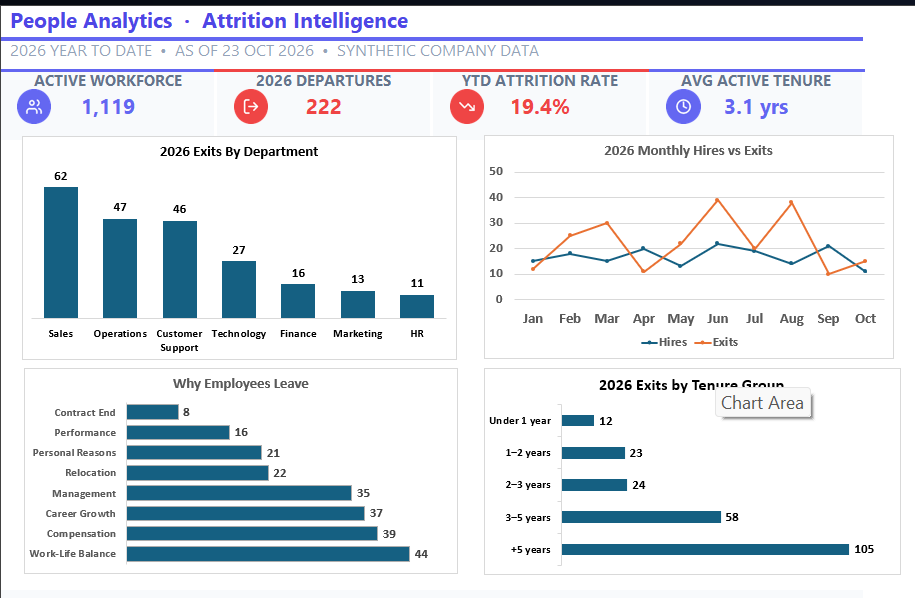
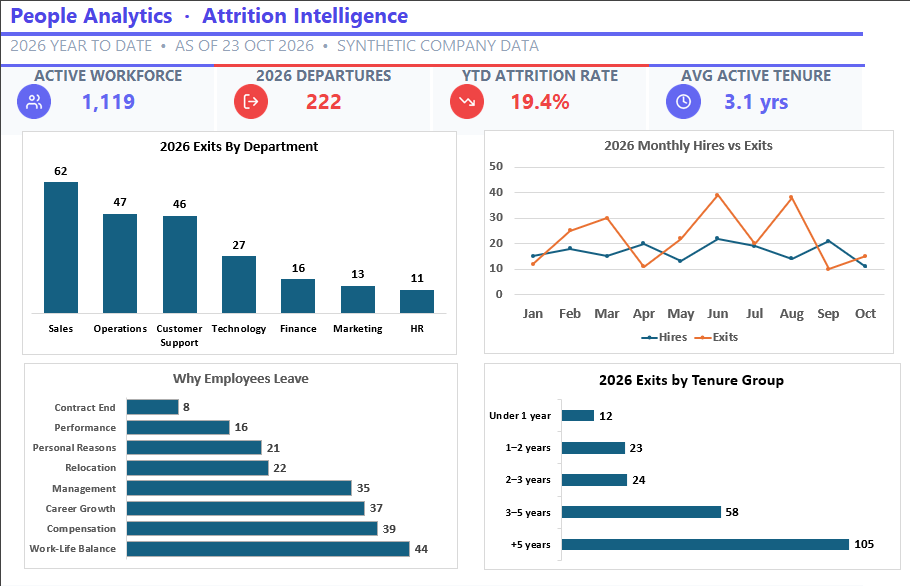
feat: add case study tab navigation components
Implement CSS styles for interactive tab components to enhance project case study organization, including responsive grid layouts for mobile viewports.

diff --git a/index.html b/index.html
@@ -276,10 +276,136 @@
 
                 <div class="case-studies-list">
 
-                    <!-- CASE STUDY 01: RFM CUSTOMER SEGMENTATION -->
-                    <article class="case-study">
+                    <!-- CASE STUDY 01: OMNI-CHANNEL MARKETING ANALYTICS & CUSTOMER JOURNEY FUNNEL -->
+                    <article id="marketing-project" class="case-study">
                         <div class="case-study-head">
                             <p class="case-study-index">Case Study 01</p>
+                            <h3>Omni-Channel Marketing Analytics &amp; Customer Journey Funnel</h3>
+                            <p class="case-study-objective">
+                                Connects marketing campaign engagement, on-site customer journey activity, and post-purchase reviews in one reporting model to evaluate marketing efficiency, checkout drop-offs, and customer satisfaction.
+                            </p>
+                        </div>
+
+                        <div class="case-study-media-wrap">
+                            <div class="case-study-tabs" role="tablist" aria-label="Dashboard report views" data-preview-tabs="marketing-preview">
+                                <button
+                                    type="button"
+                                    role="tab"
+                                    aria-selected="true"
+                                    class="case-study-tab is-active"
+                                    data-src="assets/images/project-marketing-campaign.png"
+                                    data-alt="Marketing Campaign and Media Performance Dashboard"
+                                    data-title="Omni-Channel Marketing Analytics — Campaign &amp; Media Performance"
+                                    data-width="1182"
+                                    data-height="661"
+                                >
+                                    Campaign &amp; Media
+                                </button>
+                                <button
+                                    type="button"
+                                    role="tab"
+                                    aria-selected="false"
+                                    class="case-study-tab"
+                                    data-src="assets/images/project-marketing-funnel.png"
+                                    data-alt="Customer Journey and Conversion Funnel Dashboard"
+                                    data-title="Omni-Channel Marketing Analytics — Customer Journey &amp; Conversion Funnel"
+                                    data-width="1178"
+                                    data-height="660"
+                                >
+                                    Conversion Funnel
+                                </button>
+                                <button
+                                    type="button"
+                                    role="tab"
+                                    aria-selected="false"
+                                    class="case-study-tab"
+                                    data-src="assets/images/project-marketing-sentiment.png"
+                                    data-alt="Customer Feedback and Product Sentiment Dashboard"
+                                    data-title="Omni-Channel Marketing Analytics — Customer Feedback &amp; Product Sentiment"
+                                    data-width="1193"
+                                    data-height="667"
+                                >
+                                    Customer Sentiment
+                                </button>
+                                <button
+                                    type="button"
+                                    role="tab"
+                                    aria-selected="false"
+                                    class="case-study-tab"
+                                    data-src="assets/images/project-marketing-model.png"
+                                    data-alt="Omni-Channel Marketing Star Schema Data Model"
+                                    data-title="Omni-Channel Marketing Analytics — Star Schema Data Model"
+                                    data-width="1211"
+                                    data-height="645"
+                                >
+                                    Star Schema Model
+                                </button>
+                            </div>
+
+                            <button
+                                id="marketing-preview"
+                                type="button"
+                                class="case-study-media-btn"
+                                data-lightbox-src="assets/images/project-marketing-campaign.png"
+                                data-lightbox-title="Omni-Channel Marketing Analytics — Campaign &amp; Media Performance"
+                                aria-label="Enlarge Marketing Campaign and Media Performance Dashboard"
+                            >
+                                <img
+                                    src="assets/images/project-marketing-campaign.png"
+                                    alt="Marketing Campaign and Media Performance Dashboard"
+                                    width="1182"
+                                    height="661"
+                                    loading="lazy"
+                                    decoding="async"
+                                    referrerPolicy="no-referrer"
+                                >
+                                <span class="case-study-zoom-hint">
+                                    <i class="fas fa-expand" aria-hidden="true"></i>
+                                    Click to Enlarge
+                                </span>
+                            </button>
+                        </div>
+
+                        <div class="case-study-foot">
+                            <div class="case-study-value">
+                                <p class="case-study-label">Business Value</p>
+                                <p>
+                                    Helps marketing and commercial teams see which content channels drive qualified engagement, pinpoint where shoppers drop off during checkout, and connect lower customer ratings to specific product categories and regions. Supports smarter ad budget allocation, smoother checkout flows, and targeted fulfillment improvements.
+                                </p>
+                            </div>
+
+                            <div class="case-study-meta-col">
+                                <div>
+                                    <p class="case-study-label">Tools</p>
+                                    <div class="case-study-tools">
+                                        <span>SQL Server</span>
+                                        <span class="tool-sep" aria-hidden="true">·</span>
+                                        <span>Power BI</span>
+                                        <span class="tool-sep" aria-hidden="true">·</span>
+                                        <span>DAX</span>
+                                        <span class="tool-sep" aria-hidden="true">·</span>
+                                        <span>Star Schema</span>
+                                    </div>
+                                </div>
+
+                                <div class="case-study-actions">
+                                    <a href="https://app.powerbi.com/view?r=eyJrIjoiMDc2NDQ3M2YtOGI3NC00YTE3LTkzZDYtYjdmYjAxYzljMmFmIiwidCI6ImVhZjYyNGM4LWEwYzQtNDE5NS04N2QyLTQ0M2U1ZDc1MTZjZCIsImMiOjh9" target="_blank" rel="noopener noreferrer" class="btn btn-primary">
+                                        <i class="fas fa-arrow-up-right-from-square" aria-hidden="true"></i>
+                                        Live Power BI
+                                    </a>
+                                    <a href="https://github.com/ahmedrasmyabdelrheem/Omni-Channel-Marketing-Analytics-Customer-Journey-Funnel-" target="_blank" rel="noopener noreferrer" class="btn btn-outline">
+                                        <i class="fab fa-github" aria-hidden="true"></i>
+                                        GitHub
+                                    </a>
+                                </div>
+                            </div>
+                        </div>
+                    </article>
+
+                    <!-- CASE STUDY 02: RFM CUSTOMER SEGMENTATION -->
+                    <article class="case-study">
+                        <div class="case-study-head">
+                            <p class="case-study-index">Case Study 02</p>
                             <h3>Customer Behavioral Segmentation &amp; RFM Analysis</h3>
                             <p class="case-study-objective">
                                 Classifies customers by recency, purchase frequency, and spending behavior to show how different customer groups engage with the business.
@@ -287,18 +413,48 @@
                         </div>
 
                         <div class="case-study-media-wrap">
+                            <div class="case-study-tabs" role="tablist" aria-label="RFM dashboard views" data-preview-tabs="rfm-preview">
+                                <button
+                                    type="button"
+                                    role="tab"
+                                    aria-selected="true"
+                                    class="case-study-tab is-active"
+                                    data-src="assets/images/project-rfm-overview.png"
+                                    data-alt="RFM Analysis Overview Dashboard — All Segments"
+                                    data-title="Customer Behavioral Segmentation &amp; RFM Analysis — Overview (All Segments)"
+                                    data-width="1209"
+                                    data-height="656"
+                                >
+                                    RFM Overview
+                                </button>
+                                <button
+                                    type="button"
+                                    role="tab"
+                                    aria-selected="false"
+                                    class="case-study-tab"
+                                    data-src="assets/images/project-rfm.png"
+                                    data-alt="RFM Customer Segmentation Dashboard — At Risk Segment View"
+                                    data-title="Customer Behavioral Segmentation &amp; RFM Analysis — At Risk Segment View"
+                                    data-width="1328"
+                                    data-height="710"
+                                >
+                                    Segment View (At Risk)
+                                </button>
+                            </div>
+
                             <button
+                                id="rfm-preview"
                                 type="button"
                                 class="case-study-media-btn"
-                                data-lightbox-src="assets/images/project-rfm.png"
-                                data-lightbox-title="Customer Behavioral Segmentation &amp; RFM Analysis Dashboard"
-                                aria-label="Enlarge Customer Behavioral Segmentation and RFM Analysis Dashboard"
+                                data-lightbox-src="assets/images/project-rfm-overview.png"
+                                data-lightbox-title="Customer Behavioral Segmentation &amp; RFM Analysis — Overview (All Segments)"
+                                aria-label="Enlarge RFM Analysis Overview Dashboard — All Segments"
                             >
                                 <img
-                                    src="assets/images/project-rfm.png"
-                                    alt="RFM Customer Segmentation Dashboard"
-                                    width="1328"
-                                    height="710"
+                                    src="assets/images/project-rfm-overview.png"
+                                    alt="RFM Analysis Overview Dashboard — All Segments"
+                                    width="1209"
+                                    height="656"
                                     loading="lazy"
                                     decoding="async"
                                     referrerPolicy="no-referrer"
@@ -344,10 +500,10 @@
                         </div>
                     </article>
 
-                    <!-- CASE STUDY 02: PEOPLE ANALYTICS & ATTRITION INTELLIGENCE -->
+                    <!-- CASE STUDY 03: PEOPLE ANALYTICS & ATTRITION INTELLIGENCE -->
                     <article class="case-study">
                         <div class="case-study-head">
-                            <p class="case-study-index">Case Study 02</p>
+                            <p class="case-study-index">Case Study 03</p>
                             <h3>People Analytics &amp; Attrition Intelligence</h3>
                             <p class="case-study-objective">
                                 Evaluates workforce turnover patterns across departments and tenure levels to highlight where employee attrition is concentrated.
@@ -365,8 +521,8 @@
                                 <img
                                     src="assets/images/project-attrition.png"
                                     alt="People Analytics Attrition Dashboard"
-                                    width="915"
-                                    height="598"
+                                    width="910"
+                                    height="586"
                                     loading="lazy"
                                     decoding="async"
                                     referrerPolicy="no-referrer"
@@ -417,10 +573,10 @@
                         </div>
                     </article>
 
-                    <!-- CASE STUDY 03: SALES & REVENUE PERFORMANCE DASHBOARD -->
+                    <!-- CASE STUDY 04: SALES & REVENUE PERFORMANCE DASHBOARD -->
                     <article id="sales-project" class="case-study">
                         <div class="case-study-head">
-                            <p class="case-study-index">Case Study 03</p>
+                            <p class="case-study-index">Case Study 04</p>
                             <h3>Sales &amp; Revenue Performance Dashboard</h3>
                             <p class="case-study-objective">
                                 Organizes order, customer, and product records into an executive view to track overall commercial performance over time.
@@ -428,12 +584,42 @@
                         </div>
 
                         <div class="case-study-media-wrap">
+                            <div class="case-study-tabs" role="tablist" aria-label="Sales dashboard report views" data-preview-tabs="sales-preview">
+                                <button
+                                    type="button"
+                                    role="tab"
+                                    aria-selected="true"
+                                    class="case-study-tab is-active"
+                                    data-src="assets/images/project-sales.png"
+                                    data-alt="Sales Performance Dashboard"
+                                    data-title="Sales &amp; Revenue Performance — Executive Dashboard"
+                                    data-width="1672"
+                                    data-height="561"
+                                >
+                                    Sales Dashboard
+                                </button>
+                                <button
+                                    type="button"
+                                    role="tab"
+                                    aria-selected="false"
+                                    class="case-study-tab"
+                                    data-src="assets/images/project-sales-model.png"
+                                    data-alt="Sales Performance Star Schema Data Model"
+                                    data-title="Sales &amp; Revenue Performance — Star Schema Data Model"
+                                    data-width="1408"
+                                    data-height="756"
+                                >
+                                    Star Schema Model
+                                </button>
+                            </div>
+
                             <button
+                                id="sales-preview"
                                 type="button"
                                 class="case-study-media-btn"
                                 data-lightbox-src="assets/images/project-sales.png"
-                                data-lightbox-title="Sales &amp; Revenue Performance Dashboard"
-                                aria-label="Enlarge Sales and Revenue Performance Dashboard"
+                                data-lightbox-title="Sales &amp; Revenue Performance — Executive Dashboard"
+                                aria-label="Enlarge Sales Performance Dashboard"
                             >
                                 <img
                                     src="assets/images/project-sales.png"

diff --git a/assets/js/main.js b/assets/js/main.js
@@ -53,6 +53,41 @@
         });
     });
 
+    // Multi-Page Case Study Preview Tabs
+    document.querySelectorAll('[data-preview-tabs]').forEach((tabList) => {
+        const targetId = tabList.getAttribute('data-preview-tabs');
+        const previewBtn = targetId ? document.getElementById(targetId) : null;
+        const previewImg = previewBtn ? previewBtn.querySelector('img') : null;
+        if (!previewBtn || !previewImg) return;
+
+        const tabs = Array.from(tabList.querySelectorAll('[role="tab"]'));
+        tabs.forEach((tab) => {
+            tab.addEventListener('click', () => {
+                const src = tab.getAttribute('data-src');
+                const alt = tab.getAttribute('data-alt') || '';
+                const title = tab.getAttribute('data-title') || alt;
+                const width = tab.getAttribute('data-width');
+                const height = tab.getAttribute('data-height');
+                if (!src) return;
+
+                tabs.forEach((item) => {
+                    const isActive = item === tab;
+                    item.classList.toggle('is-active', isActive);
+                    item.setAttribute('aria-selected', String(isActive));
+                });
+
+                previewImg.src = src;
+                previewImg.alt = alt;
+                if (width) previewImg.width = Number(width);
+                if (height) previewImg.height = Number(height);
+
+                previewBtn.setAttribute('data-lightbox-src', src);
+                previewBtn.setAttribute('data-lightbox-title', title);
+                previewBtn.setAttribute('aria-label', `Enlarge ${alt}`);
+            });
+        });
+    });
+
     if (modalCloseBtn) {
         modalCloseBtn.addEventListener('click', closeLightbox);
     }

diff --git a/assets/css/style.css b/assets/css/style.css
@@ -636,6 +636,45 @@ textarea:focus-visible,
     padding: 0 40px;
 }
 
+.case-study-tabs {
+    display: inline-flex;
+    flex-wrap: wrap;
+    align-items: center;
+    gap: 6px;
+    padding: 5px;
+    margin-bottom: 14px;
+    background-color: var(--bg-frame);
+    border: 1px solid var(--border-subtle);
+    border-radius: var(--radius-sm);
+}
+
+.case-study-tab {
+    min-height: 36px;
+    padding: 6px 14px;
+    border-radius: 6px;
+    font-size: 0.84rem;
+    font-weight: 500;
+    color: var(--text-secondary);
+    white-space: nowrap;
+    flex-shrink: 0;
+    border: 1px solid transparent;
+    transition: background-color var(--duration-fast) var(--ease-out),
+        color var(--duration-fast) var(--ease-out),
+        border-color var(--duration-fast) var(--ease-out);
+}
+
+.case-study-tab:hover {
+    color: var(--text-main);
+    background-color: rgba(143, 165, 255, 0.06);
+}
+
+.case-study-tab.is-active {
+    background-color: var(--bg-card);
+    border-color: var(--border-accent);
+    color: var(--text-main);
+    font-weight: 600;
+}
+
 .case-study-media-btn {
     position: relative;
     display: block;
@@ -1409,6 +1448,20 @@ textarea:focus-visible,
 
     .case-study-media-wrap {
         padding: 0 12px;
+    }
+
+    .case-study-tabs {
+        display: grid;
+        grid-template-columns: repeat(2, minmax(0, 1fr));
+        width: 100%;
+    }
+
+    .case-study-tab {
+        min-height: 40px;
+        padding: 8px 10px;
+        font-size: 0.8rem;
+        text-align: center;
+        white-space: normal;
     }
 
     .case-study-media-btn {
